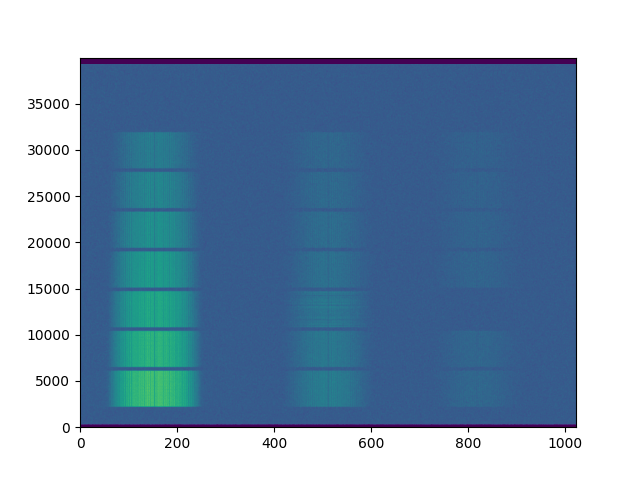
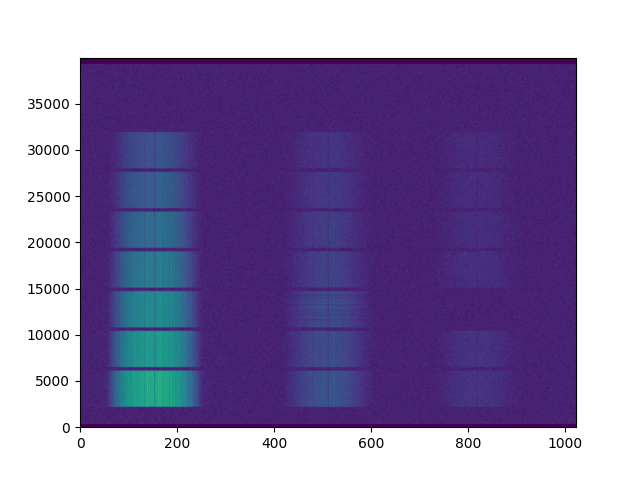
Sythesizer initialization

diff --git a/pytest_revert.py b/pytest_revert.py
@@ -27,7 +27,7 @@ ax.clear()
 
 f, t, Zxx = sig.stft(dsss_output_array, nperseg=1024, noverlap=512)
 
-ax.imshow(np.log10(np.abs(np.fft.fftshift(Zxx, axes=0).T[:40000,])), aspect='auto', origin='lower', vmin=0.1)
+ax.imshow(np.log10(np.abs(np.fft.fftshift(Zxx, axes=0).T[:40000,])), aspect='auto', origin='lower', vmin=0.5)
 
 fig.savefig('reverted_stft_dsss.png')
 
